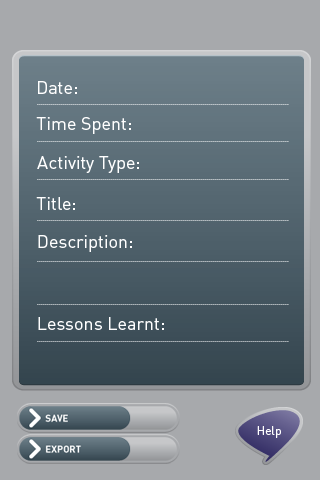
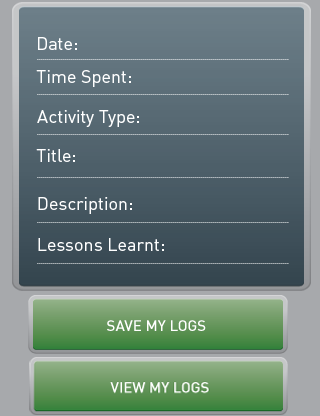
Log form updated with pickers.

diff --git a/smart_gp_ip/Classes/LogScreenViewController.m b/smart_gp_ip/Classes/LogScreenViewController.m
@@ -99,7 +99,124 @@
 	description.delegate = self;
 	lessonsLearnt.delegate = self;
 	self.title = @"New log";
-    [super viewDidLoad];
+	//set up date picking
+    datePickerView = [[UIDatePicker alloc] init];
+    [datePickerView sizeToFit];
+    datePickerView.autoresizingMask = (UIViewAutoresizingFlexibleWidth | UIViewAutoresizingFlexibleHeight);
+	date.inputView = datePickerView;
+	UIToolbar* keyboardDoneButtonView = [[UIToolbar alloc] init];
+    keyboardDoneButtonView.barStyle = UIBarStyleBlack;
+    keyboardDoneButtonView.translucent = YES;
+    keyboardDoneButtonView.tintColor = nil;
+    [keyboardDoneButtonView sizeToFit];
+    UIBarButtonItem* doneButton = [[[UIBarButtonItem alloc] initWithTitle:@"Done"
+																	style:UIBarButtonItemStyleBordered target:self
+																   action:@selector(doneClickedDate:)] autorelease];
+    [keyboardDoneButtonView setItems:[NSArray arrayWithObjects:doneButton, nil]];
+	date.inputAccessoryView = keyboardDoneButtonView;
+    [keyboardDoneButtonView release];
+	
+	// set up time spent picker
+	timespentView = [[UIPickerView alloc] init]; 
+	timespentView.delegate = self;
+    [timespentView sizeToFit];
+    timespentView.autoresizingMask = (UIViewAutoresizingFlexibleWidth | UIViewAutoresizingFlexibleHeight);
+    timespentView.showsSelectionIndicator = YES;
+	
+	timeSpent.inputView = timespentView; 
+    UIToolbar* keyboardDoneButtonView2 = [[UIToolbar alloc] init];
+    keyboardDoneButtonView2.barStyle = UIBarStyleBlack;
+    keyboardDoneButtonView2.translucent = YES;
+    keyboardDoneButtonView2.tintColor = nil;
+    [keyboardDoneButtonView2 sizeToFit];
+    UIBarButtonItem* doneButton2 = [[[UIBarButtonItem alloc] initWithTitle:@"Done"
+																	 style:UIBarButtonItemStyleBordered target:self
+																    action:@selector(doneClickedTime:)] autorelease];
+    [keyboardDoneButtonView2 setItems:[NSArray arrayWithObjects:doneButton2, nil]];
+	timeSpent.inputAccessoryView = keyboardDoneButtonView2;
+
+	// set up time spent picker
+	activityPickerView = [[UIPickerView alloc] init]; 
+	activityPickerView.delegate = self;
+    [activityPickerView sizeToFit];
+    activityPickerView.autoresizingMask = (UIViewAutoresizingFlexibleWidth | UIViewAutoresizingFlexibleHeight);
+    activityPickerView.showsSelectionIndicator = YES;
+	
+	activityType.inputView = activityPickerView; 
+    UIToolbar* keyboardDoneButtonView3 = [[UIToolbar alloc] init];
+    keyboardDoneButtonView3.barStyle = UIBarStyleBlack;
+    keyboardDoneButtonView3.translucent = YES;
+    keyboardDoneButtonView3.tintColor = nil;
+    [keyboardDoneButtonView3 sizeToFit];
+    UIBarButtonItem* doneButton3 = [[[UIBarButtonItem alloc] initWithTitle:@"Done"
+																	 style:UIBarButtonItemStyleBordered target:self
+																    action:@selector(doneClickedActivity:)] autorelease];
+    [keyboardDoneButtonView3 setItems:[NSArray arrayWithObjects:doneButton3, nil]];
+	activityType.inputAccessoryView = keyboardDoneButtonView3;
+	
+	[super viewDidLoad];
+}
+- (void) doneClickedActivity: (id) sender {
+	[activityPickerView resignFirstResponder];
+	activityType.text = [self pickerView:activityPickerView titleForRow:activityRowSelection forComponent:0];
+	[logTitle becomeFirstResponder];
+}
+- (void) doneClickedTime: (id) sender {
+	[timeSpent resignFirstResponder];
+	timeSpent.text = [self pickerView:timespentView titleForRow:timeSpentRowSelection forComponent:0];
+	[activityType becomeFirstResponder];
+}
+- (void) doneClickedDate: (id) sender {
+	[date resignFirstResponder];
+	NSDate* datePicked = datePickerView.date;
+	NSDateFormatter* frmt = [[NSDateFormatter alloc] init];
+	[frmt setDateFormat:@"dd-MM-yyyy"];
+	NSString* dateStr = [frmt stringFromDate:datePicked];
+	date.text = dateStr;
+	[frmt release];
+	[timeSpent becomeFirstResponder];
+}
+-  (void) pickerView:(UIPickerView*) pickerView didSelectRow:(NSInteger) row inComponent:(NSInteger) component {
+	if (pickerView == timespentView) timeSpentRowSelection = row;
+	if (pickerView == activityPickerView) activityRowSelection = row;
+}
+- (NSString*) pickerView:(UIPickerView*) pickerView titleForRow:(NSInteger)row forComponent:(NSInteger)component {
+	if (pickerView == timespentView) {
+		switch (row) {
+			case 0: return [NSString stringWithString: @"1h"];
+			case 1: return [NSString stringWithString: @"2h"];
+			case 2: return [NSString stringWithString: @"3h"];
+			case 3: return [NSString stringWithString: @"4h"];
+			case 4: return [NSString stringWithString: @"5h"];
+			case 5: return [NSString stringWithString: @"6h"];
+			case 6: return [NSString stringWithString: @"7h"];
+			case 7: return [NSString stringWithString: @"8h"];
+		}
+	}
+	if (pickerView == activityPickerView) {
+		switch (row) {
+			case 0: return [NSString stringWithString: @"READING"];
+			case 1: return [NSString stringWithString: @"LECTURE/MEETING"];
+			case 2: return [NSString stringWithString: @"WEB BASED"];
+			case 3: return [NSString stringWithString: @"PUNS/DENS"];
+			case 4: return [NSString stringWithString: @"SIG EVENT"];
+			case 5: return [NSString stringWithString: @"AUDIT"];
+			case 6: return [NSString stringWithString: @"OTHER"];
+		}
+	}
+	return @"";
+}
+- (NSInteger)numberOfComponentsInPickerView:(UIPickerView *)pickerView {
+	return 1;
+}
+- (NSInteger)pickerView:(UIPickerView *)pickerView numberOfRowsInComponent:(NSInteger)component {
+	if (pickerView == timespentView) {
+		return 8;
+	}
+	if (pickerView == activityPickerView) {
+		return 7;
+	}
+	return 0;
 }
 - (BOOL) textFieldShouldReturn:(UITextField *)textField {
 	if (textField == date) {
@@ -145,14 +262,6 @@
     self.view.frame = CGRectOffset(self.view.frame, 0, movement);
     [UIView commitAnimations];
 }
-- (void) viewWillAppear:(BOOL)animated {
-    //[self.navigationController setNavigationBarHidden:YES animated:animated];
-    [super viewWillAppear:animated];
-}
-- (void) viewWillDisappear:(BOOL)animated {
-    //[self.navigationController setNavigationBarHidden:NO animated:animated];
-    [super viewWillDisappear:animated];
-}
 - (void)didReceiveMemoryWarning {
     [super didReceiveMemoryWarning];
 }
@@ -160,6 +269,15 @@
     [super viewDidUnload];
 }
 - (void)dealloc {
+	[date release];
+	[timeSpent release];
+	[activityType release];
+	[logTitle release];
+	[description release];
+	[lessonsLearnt release];
+	[datePickerView release];
+	[timespentView release];
+	[activityPickerView release];
     [super dealloc];
 }
 @end

diff --git a/smart_gp_ip/Classes/LogScreenViewController.h b/smart_gp_ip/Classes/LogScreenViewController.h
@@ -9,7 +9,7 @@
 #import <UIKit/UIKit.h>
 #import <MessageUI/MessageUI.h>
 
-@interface LogScreenViewController : UIViewController <UITextFieldDelegate, MFMailComposeViewControllerDelegate> {
+@interface LogScreenViewController : UIViewController <UITextFieldDelegate, MFMailComposeViewControllerDelegate, UIPickerViewDelegate, UIPickerViewDataSource> {
 
 	IBOutlet UITextField* date;
 	IBOutlet UITextField* timeSpent;
@@ -17,7 +17,11 @@
 	IBOutlet UITextField* logTitle;
 	IBOutlet UITextField* description;
 	IBOutlet UITextField* lessonsLearnt;
-	
+	UIDatePicker* datePickerView;
+	UIPickerView* timespentView;
+	NSInteger timeSpentRowSelection;
+	UIPickerView* activityPickerView;
+	NSInteger activityRowSelection;
 }
 
 @property (nonatomic, retain) UITextField* date;
